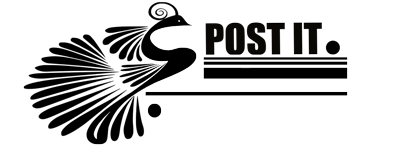
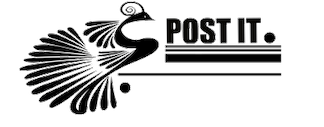
created toolbox with a search on my header.js

diff --git a/src/components/header/Header.js b/src/components/header/Header.js
@@ -1,84 +1,252 @@
-// JavaScript Document
 import React from 'react';
-import SearchInput from '../../components/search/SearchInput';
+import { fade, makeStyles } from '@material-ui/core/styles';
+import AppBar from '@material-ui/core/AppBar';
+import Toolbar from '@material-ui/core/Toolbar';
+import IconButton from '@material-ui/core/IconButton';
+import Typography from '@material-ui/core/Typography';
+import InputBase from '@material-ui/core/InputBase';
+import Badge from '@material-ui/core/Badge';
+import MenuItem from '@material-ui/core/MenuItem';
+import Menu from '@material-ui/core/Menu';
+import MenuIcon from '@material-ui/icons/Menu';
+import SearchIcon from '@material-ui/icons/Search';
+import AccountCircle from '@material-ui/icons/AccountCircle';
+import MailIcon from '@material-ui/icons/Mail';
+import NotificationsIcon from '@material-ui/icons/Notifications';
+import MoreIcon from '@material-ui/icons/MoreVert';
+import Link from '@material-ui/core/Link';
 
 //Images & Icons
 import logo from '../../images/postIt.png';
-import SearchIcon from '@material-ui/icons/Search';
-import AccountBoxIcon from '@material-ui/icons/AccountBox';
-import SettingsIcon from '@material-ui/icons/Settings';
-
-//Material UI
-import { makeStyles } from '@material-ui/core/styles';
-import Typography from '@material-ui/core/Typography';
-import Link from '@material-ui/core/Link';
-import Grid from "@material-ui/core/Grid";
-import Box from '@material-ui/core/Box';
 
 const useStyles = makeStyles(theme => ({
-  root:{				
-		flexGrow:'1',
-		overflow:'hidden',
-		textAlign:'left',
+  grow: {
+    flexGrow: 1,
+  },
+  menuButton: {
+	  display: 'block',
+	  marginRight: theme.spacing(2),
+	color: theme.palette.primary.main,
+    [theme.breakpoints.up('md')]: {
+    display: 'none',
 	},
-	col:{
-		float:'right',
-	},
-	colName:{
-		float:'right',
-		padding:'0',
-		margin:'0%',
-	},
-	typography:{
-		color:theme.palette.secondary.main
-	},
-	searchBox:{
-	backgroundColor:'rgba(231, 231, 231, 0.8)',
-	border:'none',
-	},
-	search:{
-		height:'32px',
-		backgroundColor:'rgba(231, 231, 231, 0.8)',
-	},
-	goS:{
-		float:'right',
-		marginTop:'-5%',
-		marginRight:'2%',
-		backgroundColor:'transparent',
-	}
+  },
+  logo: {
+    display: 'none',
+    [theme.breakpoints.up('md')]: {
+      display: 'block',
+		marginLeft: theme.spacing(-2),
+		width:'auto',
+    },
+  },
+  search: {
+    position: 'relative',
+    borderRadius: theme.shape.borderRadius,
+    backgroundColor: fade(theme.palette.common.black, 0.15),
+    '&:hover': {
+      backgroundColor: fade(theme.palette.common.black, 0.25),
+    },
+    marginRight: theme.spacing(2),
+    marginLeft: 0,
+    width: '100%',
+    [theme.breakpoints.up('lg')]: {
+      marginLeft: theme.spacing(-1),
+      width: '100%',
+    },
+  },
+  searchIcon: {
+    width: theme.spacing(5),
+    height: '100%',
+    position: 'absolute',
+    pointerEvents: 'none',
+    display: 'flex',
+    alignItems: 'center',
+    justifyContent: 'center',
+  },
+  inputRoot: {
+    color: theme.palette.primary.main,
+  },
+  inputInput: {
+    padding: theme.spacing(1, 1, 1, 7),
+    transition: theme.transitions.create('width'),
+    width: '100%',
+    [theme.breakpoints.up('md')]: {
+      width: 200,
+    },
+  },
+  sectionDesktop: {
+    display: 'none',
+    [theme.breakpoints.up('md')]: {
+      display: 'flex',
+    },
+  },
+  sectionMobile: {
+    display: 'flex',
+    [theme.breakpoints.up('md')]: {
+      display: 'none',
+    },
+  },
 }));
 
 const Links = () => {
 	const classes = useStyles();
   return (
-	 
      <Typography display="block" align="center">
       	<Link className={classes.typography} href="http://localhost:3000/Account">
-	  		<SettingsIcon />
+	  		My account
 	  	</Link>
     </Typography>
   );
 }
 
-export default function Header() {
+export default function PrimarySearchAppBar() {
   const classes = useStyles();
-  return(
-    <div className={classes.root}>
-		<Box component="span" display="inline" p={1} m={1} className={classes.col}><Links /></Box>
-		<Box component="span" display="inline" p={1} m={1} className={classes.colName}><p className={classes.typography}>Bryan Rogers</p></Box>
-		<Box component="span" display="inline" p={1} m={1} className={classes.col}><AccountBoxIcon /></Box>
-	
-		<Grid container spacing={1}>
-	  	<Grid item xs={12} md={4}>
-				<img src={logo} alt="Logo icon"/>		
-        </Grid>
-        <Grid item xs={12} className={classes.searchBox} >
-        		<SearchInput className={classes.search}/>
-				<SearchIcon className={classes.goS}/>
-        </Grid>
-      </Grid>
+  const [anchorEl, setAnchorEl] = React.useState(null);
+  const [mobileMoreAnchorEl, setMobileMoreAnchorEl] = React.useState(null);
+
+  const isMenuOpen = Boolean(anchorEl);
+  const isMobileMenuOpen = Boolean(mobileMoreAnchorEl);
+
+  const handleProfileMenuOpen = event => {
+    setAnchorEl(event.currentTarget);
+  };
+
+  const handleMobileMenuClose = () => {
+    setMobileMoreAnchorEl(null);
+  };
+
+  const handleMenuClose = () => {
+    setAnchorEl(null);
+    handleMobileMenuClose();
+  };
+
+  const handleMobileMenuOpen = event => {
+    setMobileMoreAnchorEl(event.currentTarget);
+  };
+
+  const menuId = 'primary-search-account-menu';
+  const renderMenu = (
+    <Menu
+      anchorEl={anchorEl}
+      anchorOrigin={{ vertical: 'top', horizontal: 'right' }}
+      id={menuId}
+      keepMounted
+      transformOrigin={{ vertical: 'top', horizontal: 'right' }}
+      open={isMenuOpen}
+      onClose={handleMenuClose}
+    >
+      <MenuItem onClick={handleMenuClose}>Bryan Rogers</MenuItem>
+      <MenuItem onClick={handleMenuClose}><Links /></MenuItem>
+    </Menu>
+  );
+
+  const mobileMenuId = 'primary-search-account-menu-mobile';
+  const renderMobileMenu = (
+    <Menu
+      anchorEl={mobileMoreAnchorEl}
+      anchorOrigin={{ vertical: 'top', horizontal: 'right' }}
+      id={mobileMenuId}
+      keepMounted
+      transformOrigin={{ vertical: 'top', horizontal: 'right' }}
+      open={isMobileMenuOpen}
+      onClose={handleMobileMenuClose}
+    >
+      <MenuItem>
+        <IconButton aria-label="show 4 new mails" color="primary">
+          <Badge badgeContent={4} color="secondary">
+            <MailIcon />
+          </Badge>
+        </IconButton>
+        <p>Messages</p>
+      </MenuItem>
+      <MenuItem>
+        <IconButton aria-label="show 11 new notifications" color="inherit">
+          <Badge badgeContent={11} color="secondary">
+            <NotificationsIcon />
+          </Badge>
+        </IconButton>
+        <p>Notifications</p>
+      </MenuItem>
+      <MenuItem onClick={handleProfileMenuOpen}>
+        <IconButton
+          aria-label="account of current user"
+          aria-controls="primary-search-account-menu"
+          aria-haspopup="true"
+          color="inherit"
+        >
+          <AccountCircle />
+        </IconButton>
+        <p>Bryan Rogers</p>
+      </MenuItem>
+    </Menu>
+  );
+
+  return (
+    <div className={classes.grow}>
+      <AppBar position="static" style={{ background: 'transparent', boxShadow: 'none'}}>
+        <Toolbar>
+          <IconButton
+            edge="start"
+            className={classes.menuButton}
+            color="inherit"
+            aria-label="open drawer"
+          >
+            <MenuIcon />
+          </IconButton>
+          <Typography className={classes.logo} >
+            <img src={logo} alt="Logo icon"/>
+          </Typography>
+          <div className={classes.search}>
+            <div className={classes.searchIcon}>
+              <SearchIcon />
+            </div>
+            <InputBase
+              placeholder="Search…"
+              classes={{
+                root: classes.inputRoot,
+                input: classes.inputInput,
+              }}
+              inputProps={{ 'aria-label': 'search' }}
+            />
+          </div>
+          <div className={classes.grow} />
+          <div className={classes.sectionDesktop}>
+            <IconButton aria-label="show 4 new mails" color="primary">
+              <Badge badgeContent={4} color="secondary">
+                <MailIcon />
+              </Badge>
+            </IconButton>
+            <IconButton aria-label="show 17 new notifications" color="primary">
+              <Badge badgeContent={17} color="secondary">
+                <NotificationsIcon />
+              </Badge>
+            </IconButton>
+            <IconButton
+              edge="end"
+              aria-label="account of current user"
+              aria-controls={menuId}
+              aria-haspopup="true"
+              onClick={handleProfileMenuOpen}
+              color="primary"
+            >
+              <AccountCircle />
+            </IconButton>
+          </div>
+          <div className={classes.sectionMobile}>
+            <IconButton
+              aria-label="show more"
+              aria-controls={mobileMenuId}
+              aria-haspopup="true"
+              onClick={handleMobileMenuOpen}
+              color="inherit"
+            >
+              <MoreIcon />
+            </IconButton>
+          </div>
+        </Toolbar>
+      </AppBar>
+      {renderMobileMenu}
+      {renderMenu}
     </div>
-	 
   );
 }
-

diff --git a/src/components/footer/Footer.js b/src/components/footer/Footer.js
@@ -30,7 +30,9 @@ const useStyles = makeStyles(theme => ({
 	logo2:{
 		width:'75%',
 		marginLeft:'-15%',
-		
+    [theme.breakpoints.up('lg')]: {
+     width:'35%',
+    },
 	},
 	a:{
 		color:'grey',
@@ -63,8 +65,8 @@ export default function Footer() {
   return(
     <div className={classes.root}>
       <Grid container spacing={3}>
-	  <Grid item xs={0} md={2}></Grid>
-	  <Grid item xs={3} md={1}>
+	  <Grid item xs={0} md={2} xl={3}></Grid>
+	  <Grid item xs={3} md={1} lg={1}>
           <Paper className={classes.paper} variant="outlined"><img src={logo2} alt="Logo2 icon" className={classes.logo2}/></Paper>
         </Grid>
 	  <Grid item xs={12} md={2}>
@@ -91,6 +93,7 @@ export default function Footer() {
 					<p><a className={classes.a} href='https://reactjs.org'>Code of Contact</a></p>
 		</Paper>
         </Grid>
+	    <Grid item xs={0} md={2}></Grid>
 		<Grid item xs={12} md={12}>
           <Paper className={classes.paper} variant="outlined">
 		<Copyright />

diff --git a/src/App.js b/src/App.js
@@ -44,7 +44,7 @@ const useStyles = makeStyles(theme => ({
 		overflow:'hidden',
   },
 	headerRow:{
-		padding:'3%',
+		padding:'1%',
 		backgroundColor:'white',
 	},
 	paper:{
@@ -75,10 +75,10 @@ export default function App() {
         </Grid>
 	  
 		<Grid container spacing={1}>
-         <Grid item xs={6} md={3}>
+         <Grid item xs={12} md={3}>
         <Paper className={classes.paper} variant="outlined"><SideBarLeft /></Paper>
         </Grid>
-        <Grid item xs={12} md={6}>
+        <Grid item xs={12} md={5}>
           <Paper className={classes.paper} variant="outlined"><Routes /></Paper>
         </Grid>
         <Grid item xs={12} md={3}>

diff --git a/src/components/sidebarleft/SideBarLeft.js b/src/components/sidebarleft/SideBarLeft.js
@@ -17,7 +17,7 @@ const useStyles = makeStyles(theme => ({
 		marginLeft:'5%',
   },
 	btn:{
-		fontSize:'1.65em',
+		fontSize:'1.25em',
 		marginTop:'5%',
 		color:theme.palette.secondary.main,
 	}
